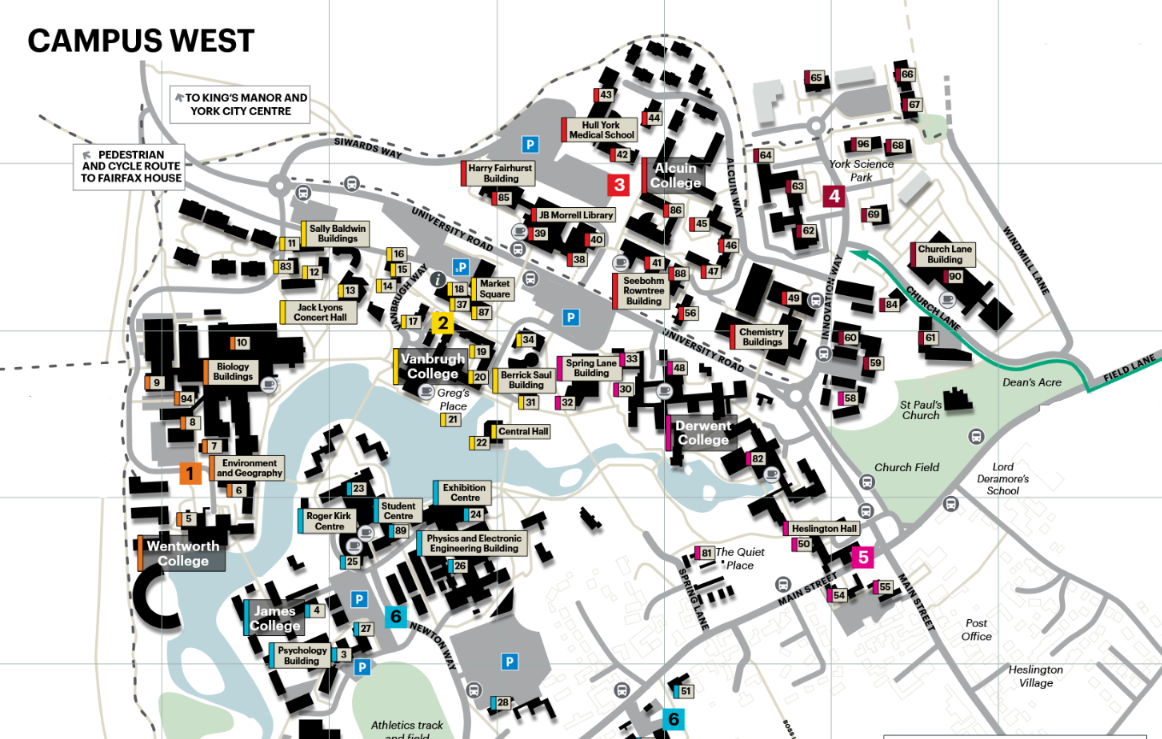
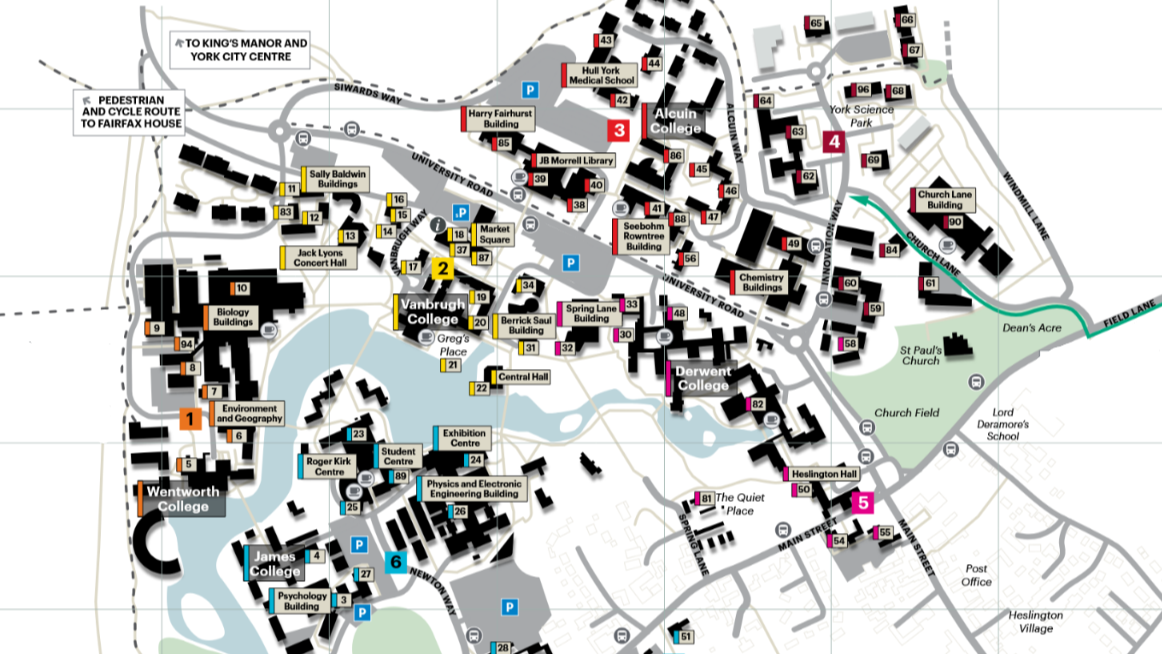
Substantial additions Added 4 classes for next steps in development. Entity abstract class Goose class Player class GameLogic class
Ive mostly completed the entity class. Goose and player both extend Enitity and ive mostly implemented a basic player class.

Ive also made the screen centered on the player.

diff --git a/core/src/main/java/io/github/goose_patrol/GameScreen.java b/core/src/main/java/io/github/goose_patrol/GameScreen.java
@@ -2,72 +2,80 @@ package io.github.goose_patrol;
 
 import com.badlogic.gdx.ScreenAdapter;
 import com.badlogic.gdx.graphics.Color;
+import com.badlogic.gdx.graphics.OrthographicCamera;
 import com.badlogic.gdx.graphics.Texture;
 import com.badlogic.gdx.graphics.g2d.Batch;
 import com.badlogic.gdx.graphics.g2d.BitmapFont;
 import com.badlogic.gdx.graphics.g2d.GlyphLayout;
-import com.badlogic.gdx.graphics.g2d.TextureRegion;
 import com.badlogic.gdx.utils.ScreenUtils;
 import com.badlogic.gdx.utils.viewport.FitViewport;
 import com.badlogic.gdx.utils.viewport.Viewport;
 
 /// not yet implemented fully///
-
+/* Screen after controlScreen that contains the main game */
 public class GameScreen extends ScreenAdapter {
-    // main game screen loads after first screen
-
     // Assets + objects
-    private final GooseGame game;
     private final Batch batch;
     private final BitmapFont font;
-    private final Viewport viewport;
+    private final Viewport gameView;
+    private final OrthographicCamera camera;
     private final GlyphLayout layout = new GlyphLayout();
-    private final TextureRegion background;
+    private final Texture background;
+    private final Texture playerTexture;
+    private final Player player;
 
-    // Values
-    private final float viewportScaler; // scales the size of the viewport without affecting the resolution ratio
+    // Constants
+    private final float SCREEN_WIDTH = 1162f;
+    private final float SCREEN_HEIGHT = 650f;
 
-    public GameScreen(GooseGame game) {
-        this.game = game;
-        this.batch = game.getBatch();
-        this.font = game.getFont();
-        background = new TextureRegion(new Texture("Campus_Background.png"));
-        viewportScaler = 70;
-        viewport = new FitViewport(4 * viewportScaler, 3 * viewportScaler);
-        // FitViewport keeps the experience consistent for all aspect ratios but can introduce black bars
-        // if the window is resized.
-        // ^^^ this may be fixable if we can make the window only resizable from a corner? ? ?
+
+    // Constructor
+    public GameScreen(MainGame game) {
+        batch = game.getBatch();
+        font = game.getFont();
+        camera = new OrthographicCamera();
+
+        playerTexture = new Texture("Student_Forward.png");
+        background = new Texture("Campus_Background.png");
+
+        gameView = new FitViewport(SCREEN_WIDTH/3, SCREEN_HEIGHT/3, camera);
+
+        player = new Player(SCREEN_WIDTH/2 , SCREEN_HEIGHT/2, gameView, playerTexture);
     }
 
+    // called when window resized
     @Override
     public void resize(int width, int height) {
-        // If the window is minimized on a desktop (LWJGL3) platform, width and height are 0, which causes problems.
-        // In that case, we don't resize anything, and wait for the window to be a normal size before updating.
-        if(width <= 0 || height <= 0) return;
-
-        viewport.update(width, height, true);
-        // Resize your screen here. The parameters represent the new window size.
+        if(width <= 0 || height <= 0){
+            return;
+        }
+        gameView.update(width, height, false);
     }
 
+    // called when screen is set
+    @Override
+    public void show() {
+        player.reset(SCREEN_WIDTH/2, SCREEN_HEIGHT/2);
+    }
+
+    // loops while this is the active screen
     @Override
     public void render(float delta) {
-        // render logic, may need another class to handle the game logic itself.
-        // drawing done in GameScreen.draw() method bellow
-        viewport.apply();
-        batch.setProjectionMatrix(viewport.getCamera().combined);
         ScreenUtils.clear(Color.BLACK);
+
+        gameView.apply();
+        camera.position.set(player.getPlayerX() + player.getPlayerWidth()/2, player.getPlayerY() + player.getPlayerHeight()/2, 0);
+        batch.setProjectionMatrix(gameView.getCamera().combined);
+
         draw();
     }
 
+    // draws the things on the scene
     public void draw() {
-        // draws the things on scene that will always be there
-        // i.e. background, ui, hotbar? etc...
-        final float backgroundHeight = 739.0f;
-        final float backgroundWidth = 1162.0f;
-
         batch.begin();
 
-        batch.draw(background, 0, 0, backgroundWidth, backgroundHeight);
+        batch.draw(background, 0, 0, SCREEN_WIDTH, SCREEN_HEIGHT);
+        player.draw(batch);
 
         batch.end();
     }
@@ -75,6 +83,6 @@ public class GameScreen extends ScreenAdapter {
     // make sure to dispose of screen unique items here
     @Override
     public void dispose() {
-        super.dispose();
+        background.dispose();
     }
 }

diff --git a/lwjgl3/src/main/java/io/github/goose_patrol/lwjgl3/Lwjgl3Launcher.java b/lwjgl3/src/main/java/io/github/goose_patrol/lwjgl3/Lwjgl3Launcher.java
@@ -2,7 +2,7 @@ package io.github.goose_patrol.lwjgl3;
 
 import com.badlogic.gdx.backends.lwjgl3.Lwjgl3Application;
 import com.badlogic.gdx.backends.lwjgl3.Lwjgl3ApplicationConfiguration;
-import io.github.goose_patrol.GooseGame;
+import io.github.goose_patrol.MainGame;
 
 /** Launches the desktop (LWJGL3) application. */
 public class Lwjgl3Launcher {
@@ -12,7 +12,7 @@ public class Lwjgl3Launcher {
     }
 
     private static Lwjgl3Application createApplication() {
-        return new Lwjgl3Application(new GooseGame(), getDefaultConfiguration());
+        return new Lwjgl3Application(new MainGame(), getDefaultConfiguration());
     }
 
     private static Lwjgl3ApplicationConfiguration getDefaultConfiguration() {
@@ -28,7 +28,7 @@ public class Lwjgl3Launcher {
         //// useful for testing performance, but can also be very stressful to some hardware.
         //// You may also need to configure GPU drivers to fully disable Vsync; this can cause screen tearing.
 
-        configuration.setWindowedMode(640, 480);
+        configuration.setWindowedMode(1920, 1080);
         //// You can change these files; they are in lwjgl3/src/main/resources/ .
         //// They can also be loaded from the root of assets/ .
         configuration.setWindowIcon("libgdx128.png", "libgdx64.png", "libgdx32.png", "libgdx16.png");

diff --git a/core/src/main/java/io/github/goose_patrol/MainGame.java b/core/src/main/java/io/github/goose_patrol/MainGame.java
@@ -12,7 +12,7 @@ import com.badlogic.gdx.graphics.g2d.freetype.FreeTypeFontGenerator;
  *  This class runs first, it calls create() implicitly which sets current
  *  screen to ControlScreen.
  **/
-public class GooseGame extends Game {
+public class MainGame extends Game {
     private Batch batch;
     private BitmapFont font;
 
@@ -24,7 +24,7 @@ public class GooseGame extends Game {
         FreeTypeFontGenerator generator = new FreeTypeFontGenerator(Gdx.files.internal("BasicFont.ttf"));  // font file name
         FreeTypeFontGenerator.FreeTypeFontParameter fontParam = new FreeTypeFontGenerator.FreeTypeFontParameter();
 
-        fontParam.size = 24;                 // font size
+        fontParam.size = 33;                 // font size
         fontParam.color = Color.WHITE;       // font color
 
         font = generator.generateFont(fontParam); // takes params with ttf font to generate bitmap font
@@ -41,13 +41,8 @@ public class GooseGame extends Game {
         font.dispose();
     }
 
-
     // getters for class attributes - batch, shapeRenderer, font
-    public Batch getBatch() {
-        return batch;
-    }
+    public Batch getBatch() { return batch; }
 
-    public BitmapFont getFont() {
-        return font;
-    }
+    public BitmapFont getFont() { return font; }
 }

diff --git a/core/src/main/java/io/github/goose_patrol/Player.java b/core/src/main/java/io/github/goose_patrol/Player.java
@@ -1,0 +1,49 @@
+package io.github.goose_patrol;
+
+import com.badlogic.gdx.graphics.Texture;
+import com.badlogic.gdx.utils.viewport.Viewport;
+
+
+public class Player extends Entity{
+    // Assets + objects
+    private final Viewport gameView;
+
+    // Constants - will be changed later but just some arbitrary values for now
+    private static final float PLAYER_SCALE = 0.5f;
+    private final float MAX_HEALTH = 100;
+
+    // Values
+    private float health;
+
+    // Constructor
+    public Player(float x, float y, Viewport gameView, Texture texture) {
+        super(x, y, texture.getWidth() * PLAYER_SCALE, texture.getHeight() * PLAYER_SCALE, texture);
+
+        this.gameView = gameView;
+    }
+
+    // called when game starts/ restarts
+    public void reset(float x, float y) {
+        rect.setPosition(x, y);
+        health = MAX_HEALTH;
+    }
+
+    //
+    @Override
+    void update(float delta) {
+
+    }
+
+    // getters
+    public float getHealth() { return health ;}
+
+    public float getPlayerX() { return rect.x; }
+
+    public float getPlayerY() { return rect.y; }
+
+    public float getPlayerHeight() { return texture.getHeight() * PLAYER_SCALE; }
+
+    public float getPlayerWidth() { return texture.getWidth() * PLAYER_SCALE; }
+
+
+}

diff --git a/core/src/main/java/io/github/goose_patrol/ControlScreen.java b/core/src/main/java/io/github/goose_patrol/ControlScreen.java
@@ -15,22 +15,22 @@ import com.badlogic.gdx.utils.viewport.Viewport;
  *  - Also shows control scheme.
  **/
 public class ControlScreen extends ScreenAdapter {
-    private final GooseGame game;
+    private final MainGame game;
     private final Batch batch;
     private final BitmapFont font;
     private final Viewport viewport;
     private final GlyphLayout layout;
     private final Sprite controls;
 
+    public ControlScreen(MainGame game) {
 
-    public ControlScreen(GooseGame game) {
         this.game = game;
         batch = game.getBatch();
         font = game.getFont();
         layout = new GlyphLayout();
         viewport = new ScreenViewport();
         controls = new Sprite(new Texture("WASDimg.png"));
-        controls.scale(1);
+        controls.scale(1f);
     }
 
     @Override
@@ -101,12 +101,5 @@ public class ControlScreen extends ScreenAdapter {
 
         batch.end();
         // end of draw batch
-
-    }
-
-
-    @Override
-    public void dispose() {
-        super.dispose();
     }
 }

diff --git a/core/src/main/java/io/github/goose_patrol/Entity.java b/core/src/main/java/io/github/goose_patrol/Entity.java
@@ -1,0 +1,33 @@
+package io.github.goose_patrol;
+
+import com.badlogic.gdx.graphics.Texture;
+import com.badlogic.gdx.graphics.g2d.Batch;
+import com.badlogic.gdx.math.Rectangle;
+
+// the class all players and enemies are from
+public abstract class Entity {
+
+    protected final Rectangle rect;
+    protected Texture texture;
+
+    //Constructor -  pos of bottom left corner, width and height, texture
+    public Entity(float x, float y, float w, float h, Texture texture) {
+        this.rect = new Rectangle(x, y, w, h);
+        this.texture = texture;
+    }
+
+    // return true if the rectangles of the 2 objects are overlapping
+    public boolean overlaps(Entity other) {
+        return rect.overlaps(other.rect);
+    }
+
+    // draws entity
+    public void draw(Batch batch) {
+        if (texture == null) return;
+
+        batch.draw(texture, rect.x, rect.y, rect.width, rect.height);
+    }
+
+    abstract void update(float delta);
+
+}

diff --git a/core/src/main/java/io/github/goose_patrol/Goose.java b/core/src/main/java/io/github/goose_patrol/Goose.java
@@ -1,0 +1,15 @@
+package io.github.goose_patrol;
+
+import com.badlogic.gdx.graphics.Texture;
+
+public class Goose extends Entity{
+
+    public Goose(float x, float y, float w, float h, Texture texture) {
+        super(x, y, w, h, texture);
+    }
+
+    @Override
+    void update(float delta) {
+
+    }
+}

diff --git a/core/src/main/java/io/github/goose_patrol/GameLogic.java b/core/src/main/java/io/github/goose_patrol/GameLogic.java
@@ -1,0 +1,12 @@
+package io.github.goose_patrol;
+
+public class GameLogic {
+    public GameLogic() {
+
+    }
+
+    public void checkInput() {
+
+    }
+
+}
